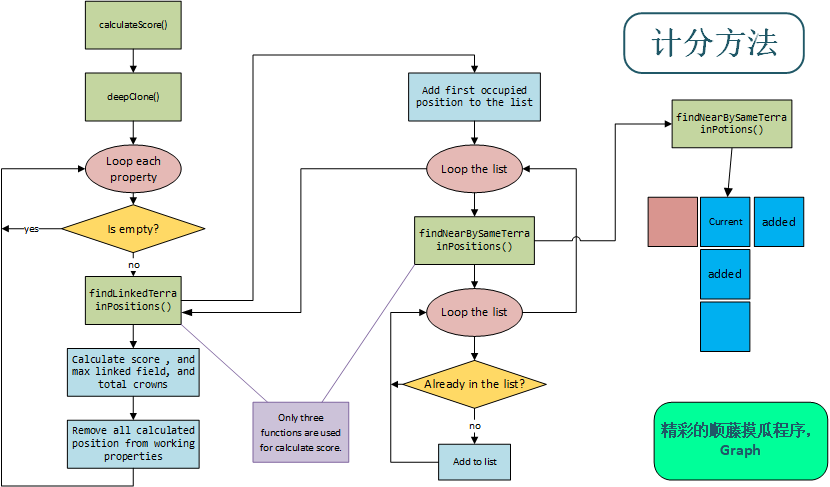
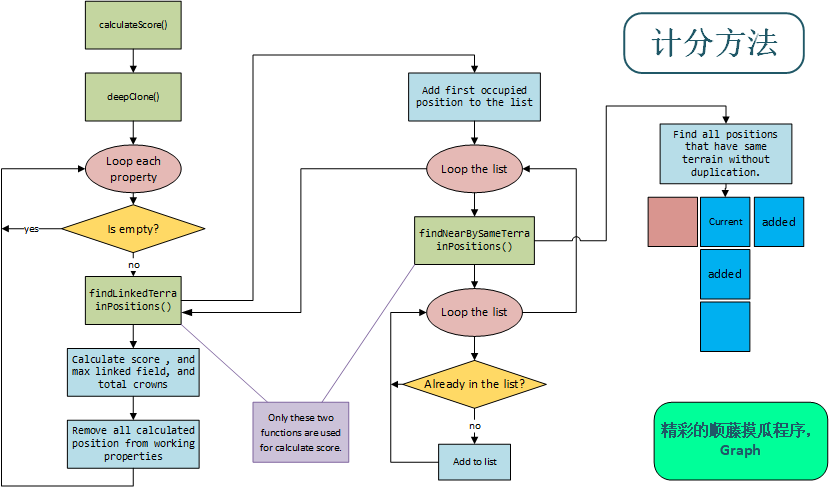
get rid of title use domino instead.

Changed region(s): [[0.7229, 0.1848, 0.9639, 0.4928], [0.3313, 0.8316, 0.3916, 0.8624]]

diff --git a/huaxia/src/com/huaxia/kingdomino/Kingdomino.java b/huaxia/src/com/huaxia/kingdomino/Kingdomino.java
@@ -22,7 +22,7 @@ public class Kingdomino {
 	Player player3;
 	Player player4;
 	ArrayList<Player> fourPlayers;
-	int chooseTile = 0;
+	int choosenDomino = 0;
 	boolean case1Selected, case2Selected = false;
 	Position position1, position2; // terrain1 and terrain2 grid positions
 	Color fond = new Color(238, 231, 188);
@@ -39,9 +39,9 @@ public class Kingdomino {
 		fourPlayers = shufflePlayers();
 		while (deck.size() != 0) {
 			showPlayOrder(roundNum);
-			ArrayList<Domino> tileList4 = getNewDominoListFromDeck();
+			ArrayList<Domino> dominoList4 = getNewDominoListFromDeck();
 			for (int i = 0; i < 4; i++) { // loop each player
-				doGame(fourPlayers.get(i), tileList4);
+				doGame(fourPlayers.get(i), dominoList4);
 			}
 			fourPlayers = shufflePlayers();
 			roundNum++;
@@ -56,21 +56,21 @@ public class Kingdomino {
 				+ fourPlayers.get(3).getName(), "Round", JOptionPane.INFORMATION_MESSAGE);
 	}
 
-	private void doGame(Player player, ArrayList<Domino> tileList4) {
+	private void doGame(Player player, ArrayList<Domino> dominoList4) {
 		frame = new JFrame();
-		displayFrame(frame, player, tileList4); // setVisible(true)
-		frame.addMouseListener(new TilePositionListener(tileList4));
+		displayFrame(frame, player, dominoList4); // setVisible(true)
+		frame.addMouseListener(new DominoPositionListener(dominoList4));
 		boolean isSuccess = false;
 		do {
-			wait4PlayerPickAndDropTile();
-			isSuccess = playOnSelectGoodTile(player, tileList4, frame);
+			wait4PlayerPickAndDropDomino();
+			isSuccess = playOnSelectGoodDomino(player, dominoList4, frame);
 			resetSelectedCases();
 		} while (!isSuccess);
 		reset(frame);
 	}
 
-	private void wait4PlayerPickAndDropTile() {
-		while (chooseTile == 0 || !case1Selected || !case2Selected) {
+	private void wait4PlayerPickAndDropDomino() {
+		while (choosenDomino == 0 || !case1Selected || !case2Selected) {
 			try {
 				TimeUnit.MILLISECONDS.sleep(20);
 			} catch (InterruptedException e) {
@@ -80,24 +80,24 @@ public class Kingdomino {
 	}
 
 	private void reset(JFrame frame) {
-		chooseTile = 0;	
+		choosenDomino = 0;	
 		resetSelectedCases();
 		frame.dispose();
 	}
 
-	private boolean playOnSelectGoodTile(Player player, ArrayList<Domino> tileList, JFrame frame) {
-		if (isEmpty(tileList.get(chooseTile - 1))) {
-			JOptionPane.showMessageDialog(null, "You've choosen empty tile! Please try again :", "Error", JOptionPane.INFORMATION_MESSAGE);
+	private boolean playOnSelectGoodDomino(Player player, ArrayList<Domino> dominoList4, JFrame frame) {
+		if (isEmpty(dominoList4.get(choosenDomino - 1))) {
+			JOptionPane.showMessageDialog(null, "You've choosen empty domino! Please try again :", "Error", JOptionPane.INFORMATION_MESSAGE);
 			return false;
 		}
-		return play(player, tileList, frame);
+		return play(player, dominoList4, frame);
 	}
 	
 	private boolean play(Player player, ArrayList<Domino> dominoList, JFrame frame) {
-		Domino domino = dominoList.get(chooseTile-1) ;
+		Domino domino = dominoList.get(choosenDomino-1) ;
 		Message msg = player.insertDomino(domino, position1, position2);
 		if(msg.success) {
-			dominoList.set(chooseTile-1, Domino.emptyDomino);
+			dominoList.set(choosenDomino-1, Domino.emptyDomino);
 			displayFrame(frame, player, dominoList);
 		}
 		JOptionPane.showMessageDialog(null, msg.msg, "Score", JOptionPane.INFORMATION_MESSAGE);
@@ -114,7 +114,7 @@ public class Kingdomino {
 		System.exit(0);
 	}
 
-	private void displayFrame(JFrame frame, Player player, ArrayList<Domino> tiles) {
+	private void displayFrame(JFrame frame, Player player, ArrayList<Domino> dominoList4) {
 		frame.setTitle(player.getName());
 		frame.setSize(1080, 720);
 		JPanel p = new JPanel() {
@@ -123,7 +123,7 @@ public class Kingdomino {
 			@Override
 			public void paintComponent(Graphics g) {
 				player.drawBoard(g);
-				displayDominoList(g, tiles); // draw tile list
+				displayDominoList(g, dominoList4); // draw domino list
 			}
 		};
 		frame.setBackground(fond);
@@ -189,8 +189,8 @@ public class Kingdomino {
 		return listDominos;
 	}
 
-	private boolean isEmpty(Domino tile) {
-		return (tile.getNumber() == 0);
+	private boolean isEmpty(Domino domino) {
+		return (domino.getNumber() == 0);
 	}
 
 	private void displayDominoList(Graphics g, ArrayList<Domino> list) {
@@ -216,24 +216,24 @@ public class Kingdomino {
 		}
 	}
 
-	class TilePositionListener implements MouseListener {
-		ArrayList<Domino> tileList4;
+	class DominoPositionListener implements MouseListener {
+		ArrayList<Domino> dominoList4;
 
-		public TilePositionListener(ArrayList<Domino> tileList4) {
-			this.tileList4 = tileList4;
+		public DominoPositionListener(ArrayList<Domino> dominoList4) {
+			this.dominoList4 = dominoList4;
 		}
 
 		public void mousePressed(MouseEvent e) {
 			int x = e.getX();
 			int y = e.getY();
 			if (x >= 100 && x <= 240) {
-				for (int i = 0; i < tileList4.size(); i++) {
+				for (int i = 0; i < dominoList4.size(); i++) {
 					if (y >= 130 + 140 * i && y <= 200 + 140 * i) {
-						chooseTile = i + 1;
+						choosenDomino = i + 1;
 					}
 				}
 			}
-			if (chooseTile != 0) { // find board row and column that player selected
+			if (choosenDomino != 0) { // find board row and column that player selected
 				for (int i = 0; i < Board.lengthBoard; i++) {
 					for (int j = 0; j < Board.lengthBoard; j++) {
 						if (x >= 400 + Board.lengthCase * j && x <= 400 + Board.lengthCase * (j + 1)) {

diff --git a/huaxia/src/com/huaxia/kingdomino/BoardTest.java b/huaxia/src/com/huaxia/kingdomino/BoardTest.java
@@ -13,7 +13,7 @@ class BoardTest {
 	Board board = new Board(player, 9);
 	Terrain terrain1 = new Terrain(TerrainImage.FOREST, 2);
 	Terrain terrain2 = new Terrain(TerrainImage.FIELD, 0);
-	Domino tile = new Domino(1, terrain1, terrain2);
+	Domino domino = new Domino(1, terrain1, terrain2);
 	Terrain forest = new Terrain(TerrainImage.FOREST, 1);
 	Terrain mine = new Terrain(TerrainImage.MINE,0);
 	Terrain mountain = new Terrain(TerrainImage.MOUNTAIN,2);
@@ -30,7 +30,7 @@ class BoardTest {
 		board.leftColumn = 3;
 		board.rightColumn = 7;
 		
-		tile = new Domino(1, terrain1, terrain2);
+		domino = new Domino(1, terrain1, terrain2);
 
 		pos1 = new Position(3, 4);
 		board.properties[2][4]=new Property(new Position(2,4), forest);
@@ -102,7 +102,7 @@ class BoardTest {
 	void testIsOccupied() {
 		Position pos1 = new Position(3, 5); 
 		Position pos2 = new Position(3, 6);
-		board.insertDomino(player, tile, pos1, pos2); // insert the domino
+		board.insertDomino(player, domino, pos1, pos2); // insert the domino
 		assertTrue(board.isOccupied(pos1, pos2));
 		
 		pos2 = new Position(3,4); //one position empty
@@ -116,69 +116,12 @@ class BoardTest {
 
 	@Test
 	void testHasSameTerrainAround() {
-		assertTrue(board.hasSameTerrainAround(tile, pos1, pos2));
-		tile.terrain1 = water;
-		tile.terrain2 = water;
-		assertTrue(board.hasSameTerrainAround(tile, pos1, pos2)); // due to castle
+		assertTrue(board.hasSameTerrainAround(domino, pos1, pos2));
+		domino.terrain1 = water;
+		domino.terrain2 = water;
+		assertTrue(board.hasSameTerrainAround(domino, pos1, pos2)); // due to castle
 		pos1 = new Position(4,6);
 		pos2 = new Position(4,7);
-		assertFalse(board.hasSameTerrainAround(tile, pos1, pos2)); 
+		assertFalse(board.hasSameTerrainAround(domino, pos1, pos2)); 
 	}
-//
-//	@Test
-//	void testInserTile() {
-//		board.leftColumn = 2;
-//		board.rightColumn = 5;
-//		board.topRow = 3;
-//		board.bottomRow = 7;
-//		board.insertTile(tile, new Position(4,5), new Position(4,6));
-//		assertTrue(board.leftColumn == 2);
-//		assertTrue(board.rightColumn==6); // adjust the rightColumn
-//		assertTrue(board.topRow == 3);
-//		assertTrue(	board.bottomRow == 7);
-//		assertTrue(board.properties[4][5].terrain.equals(terrain1));
-//		assertTrue(board.properties[4][6].terrain.equals(terrain2));
-//	}
-//	
-//	@Test
-//	void testRemoveTile() {
-//		board.leftColumn = 2;
-//		board.rightColumn = 6;//rightColumn out of bound
-//		board.topRow = 3;
-//		board.bottomRow = 7;
-//		board.insertTile(tile, new Position(4,6), new Position(4,7));
-//		assertTrue(board.rightColumn==7);
-//		assertTrue(board.properties[4][7].terrain.equals(terrain2));
-//		
-//		board.removeTile(new Position(4,6), new Position(4,7));
-//		assertTrue(board.rightColumn==6); // bring rightColumn back to 6 due to remove
-//		assertTrue(board.properties[4][7].terrain.equals(Terrain.emptyTerrain));
-//		
-//		board.leftColumn = 2;
-//		board.rightColumn = 7;//rightColumn out of bound
-//		board.topRow = 2; // out of bound
-//		board.bottomRow = 7;
-//		board.removeTile(new Position(2,6), new Position(2,7));
-//		assertTrue(board.rightColumn==6); // bring rightColumn back to 6 due to remove
-//		assertTrue(board.topRow==3); // bring topRow back to 3
-//
-//		board.leftColumn = 2;
-//		board.rightColumn = 7;//rightColumn out of bound
-//		board.topRow = 2; // out of bound
-//		board.bottomRow = 7;
-//		board.removeTile(new Position(7,6), new Position(7,7));
-//		assertTrue(board.rightColumn==6); // bring rightColumn back to 6 due to remove
-//		assertTrue(board.bottomRow==6); // bring topRow back to 6
-//
-//		board.leftColumn = 2;
-//		board.rightColumn = 8; // out of bound by 2
-//		board.topRow = 2; 
-//		board.bottomRow = 6;
-//		board.removeTile(new Position(3,7), new Position(3,8)); // both position out bound
-//		assertTrue(board.leftColumn == 2);
-//		assertTrue(board.rightColumn==6); // adjust the rightColumn
-//		assertTrue(board.topRow == 2);
-//		assertTrue(	board.bottomRow == 6);
-//		
-//	}
 }

diff --git a/huaxia/src/com/huaxia/kingdomino/Player.java b/huaxia/src/com/huaxia/kingdomino/Player.java
@@ -142,8 +142,8 @@ public class Player implements Comparable<Player> {
 		return true;
 	}
 
-	public Message insertDomino(Domino tile, Position position1, Position position2) {
-		return board.insertDomino(this, tile, position1, position2);		
+	public Message insertDomino(Domino domino, Position position1, Position position2) {
+		return board.insertDomino(this, domino, position1, position2);		
 	}
 
 }

diff --git a/huaxia/src/com/huaxia/kingdomino/Deck.java b/huaxia/src/com/huaxia/kingdomino/Deck.java
@@ -31,9 +31,9 @@ public class Deck {
 				Terrain terrain2 = new Terrain(image2, crown2);
 
 				int number = Integer.parseInt(line[4]);
-				Domino tile = new Domino(number, terrain1, terrain2);
+				Domino domino = new Domino(number, terrain1, terrain2);
 				
-				this.deck.add(tile);
+				this.deck.add(domino);
 			}
 			sc.close();
 		} catch (FileNotFoundException e) {

diff --git a/huaxia/src/com/huaxia/kingdomino/ReadMe.md b/huaxia/src/com/huaxia/kingdomino/ReadMe.md
@@ -75,6 +75,14 @@ private void wait4PlayerPickAndDropTile() {
 
 ![Game Logic](logic.png)
 
+* Insert Domino Logic
+
+![Insert Domino](insertDomino.png)
+
+* Calculate Score Logic
+
+![Calculate Score](scoreLogic.png)
+
 ```java
 imageF = ImageIO.read(new File("Forest.jpg"));
 ```
